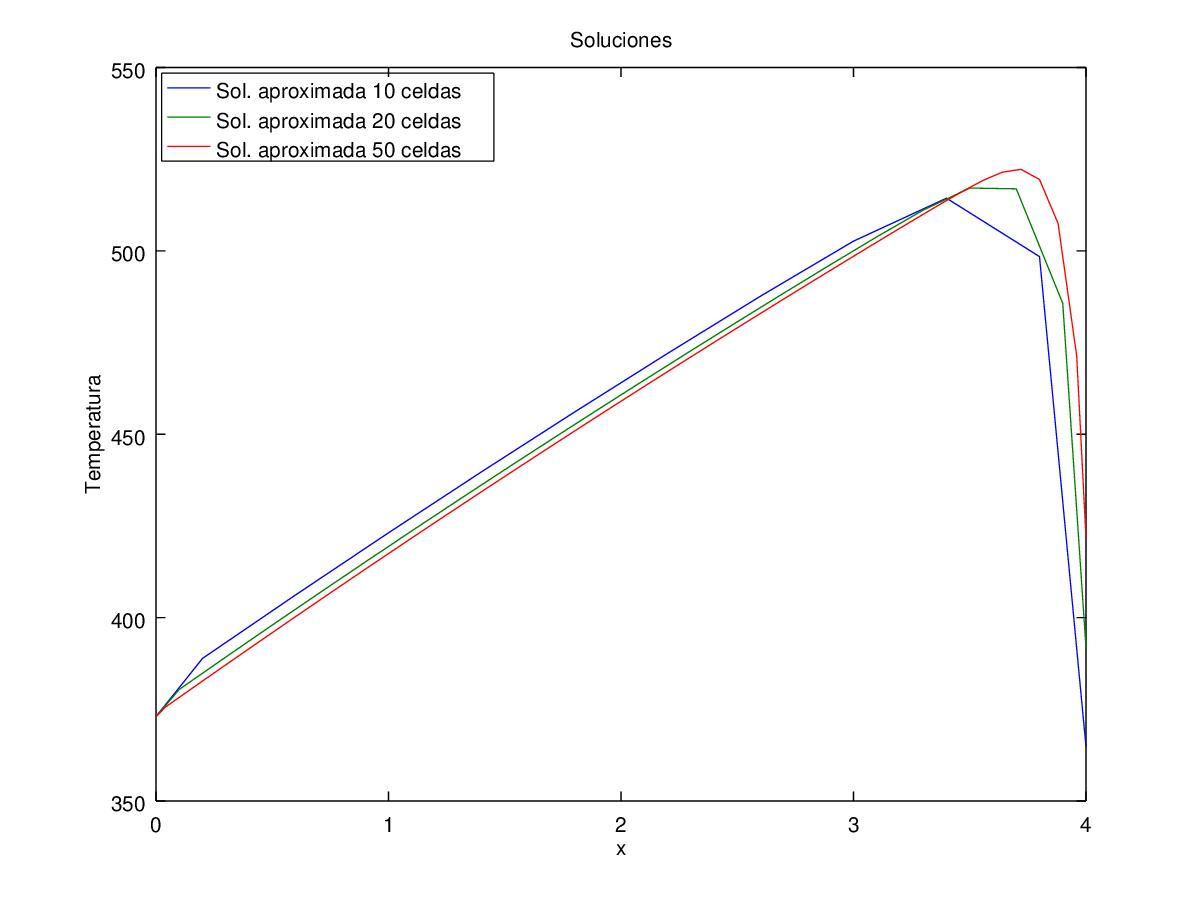
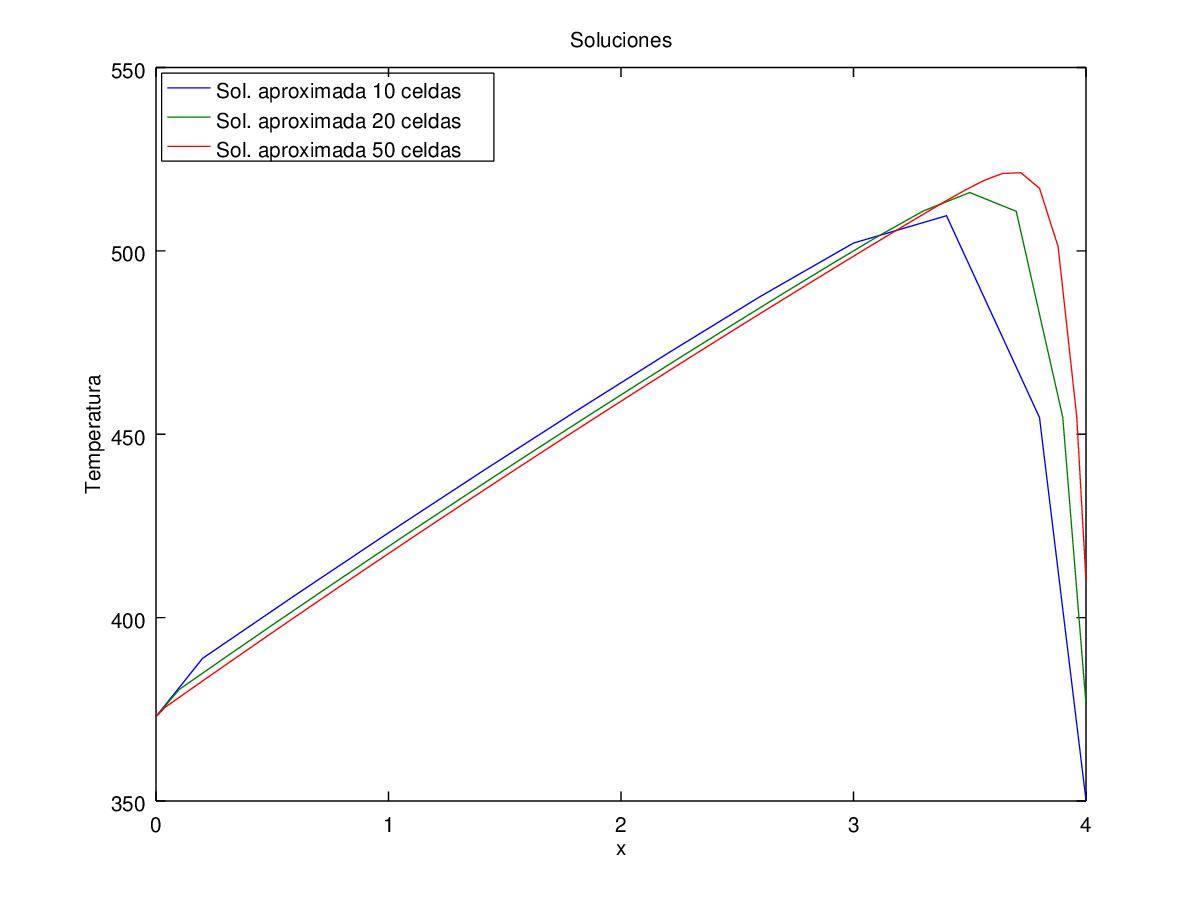
robin2

Changed region(s): [[0.7092, 0.1867, 0.925, 0.84], [0.6783, 0.28, 0.7092, 0.3111]]

diff --git a/Trabajo 1d Vol/ejer2.m b/Trabajo 1d Vol/ejer2.m
@@ -8,36 +8,38 @@ model.rhoCp = 1;
 model.xI = 0;
 model.xF = 4;
 model.G = 1273 ;
-model.tol = 1e-08;
-model.iterMax = 85;
+model.tol = 1e-10;
+model.iterMax = 100;
 model.upwind = 1;
 et = 0
 cb = [[1,373,-1] ; [3,10,298]];
 cb'
 
-model.dx = (model.xF - model.xI) / 10;
-[xnodeV1, T1] = volFinitos(model, cb, et);
-T1
-model.dx = (model.xF - model.xI) / 20;
-[xnodeV2, T2] = volFinitos(model, cb, et);
-T2
-model.dx = (model.xF - model.xI) / 50;
-[xnodeV3, T3] = volFinitos(model, cb, et);
-T3
-figure(1)
-plot(xnodeV1, T1, xnodeV2, T2, xnodeV3, T3 )
-title("Soluciones")
-xlabel("x")
-ylabel("Temperatura")
-h = legend("Sol. aproximada 10 celdas", "Sol. aproximada 20 celdas", "Sol. aproximada 50 celdas");
-legend(h, "location", "northwest");
-%saveas(1, "ejer2Funciones.jpg")
+%model.dx = (model.xF - model.xI) / 10;
+%[xnodeV1, T1] = volFinitos(model, cb, et);
+%T1
+%model.dx = (model.xF - model.xI) / 20;
+%[xnodeV2, T2] = volFinitos(model, cb, et);
+%T2
+%model.dx = (model.xF - model.xI) / 50;
+%[xnodeV3, T3] = volFinitos(model, cb, et);
+%T3
+%figure(1)
+%plot(xnodeV1, T1, xnodeV2, T2, xnodeV3, T3 )
+%title("Soluciones")
+%xlabel("x")
+%ylabel("Temperatura")
+%h = legend("Sol. aproximada 10 celdas", "Sol. aproximada 20 celdas", "Sol. aproximada 50 celdas");
+%legend(h, "location", "northwest");
+%%saveas(1, "ejer2Funciones.jpg")
 
 %Prueba temporal
-%et = 2
-%hold on
-%for i = 1 : size(T,2)
-%	plot(xnodeV, T(:, i))
-%	pause(0.2)
-%end
+et = 2
+model.dx = (model.xF - model.xI) / 50;
+[xnodeV, T] = volFinitos(model, cb, et);
+hold on
+for i = 1 : size(T,2)
+	plot(xnodeV, T(:, i))
+	pause(0.1)
+end
 

diff --git a/EDO.m b/EDO.m
@@ -1,3 +1,5 @@
+pkg load symbolic
+
 syms x T DT D2T % Defino variables simbólicas
 % Matlab entiende a D como derivada primera y D2 como derivada segunda en
 % lenguaje simbólico
@@ -9,10 +11,10 @@ condD = '1*DT(0)+2*T(0)=2*3'; % Condicion Robin con k=1, h=1 y Tinf=3
 condN = '-1*DT(0)=1'; % Condicion Neumann con k=1 y q=1
 condR = 'T(1)=10'; % Condicion Dirichlet
 
-T = dsolve(eq,condD,condR,x); % T es la solución simbólica
+T = dsolve(eq, condD, condR, x); % T es la solución simbólica
 
 xdis = 0:0.01:1;
-sol = subs(T,x,xdis); % Evalúo T en los puntos xdis que defino.
+sol = subs(T, x, xdis); % Evalúo T en los puntos xdis que defino.
 
 plot(xdis,sol)
 

diff --git a/Trabajo 1d Vol/getCondicionDerVol.m b/Trabajo 1d Vol/getCondicionDerVol.m
@@ -28,9 +28,9 @@ function [M, F] = getCondicionDerVol(M, F, S, model, cbD)
 				F(N,1) = F(N, 1) + model.k * c * S - model.v * S * a;
 			else 
 				if model.v > 0
-
-					M(N, N) = M(N, N) - model.k * S / dx - model.v * S + model.v * S - model.k * d * S; 		
-					F(N,1) = F(N, 1) + model.k * c * S;
+					
+					M(N, N) = M(N, N) - model.k * S / dx + cbD(2) * S; 		
+					F(N,1) = F(N, 1) + cbD(3) * cbD(2) * S;
 
 					%M(N, N) = M(N, N) - model.k * S / dx - model.v * S + model.v * S * b - model.k * d * S; 		
 					%F(N,1) = F(N, 1) + model.k * c * S - model.v * S * a;

diff --git a/Trabajo 1d Vol/getBordesDerVol.m b/Trabajo 1d Vol/getBordesDerVol.m
@@ -13,7 +13,7 @@ function [xnode, T] = getBordesDerVol(T, xnode, model, cbD)
 			a = (cbD(2) * cbD(3) * (dx/2) ) / den;
 			b = model.k / den;
 			phi_borde = a + b * T(end);
-
+		
 	end
 	T = [T; phi_borde];
 end
